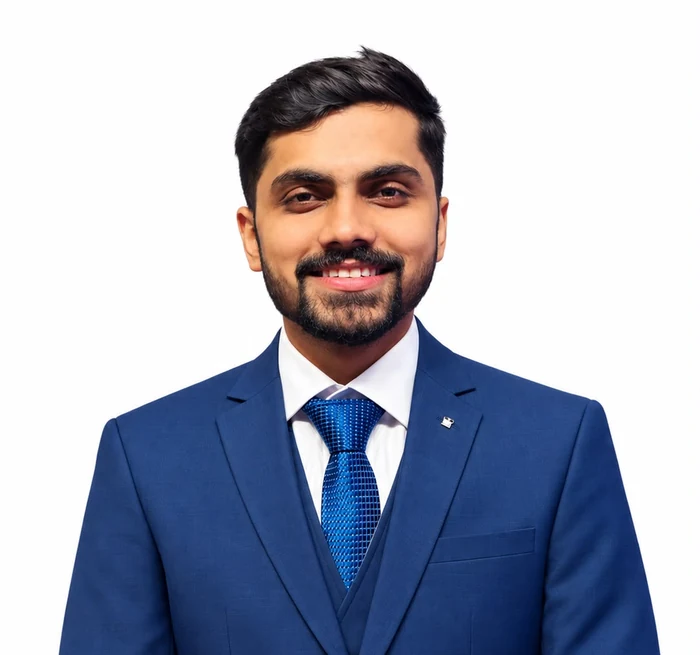
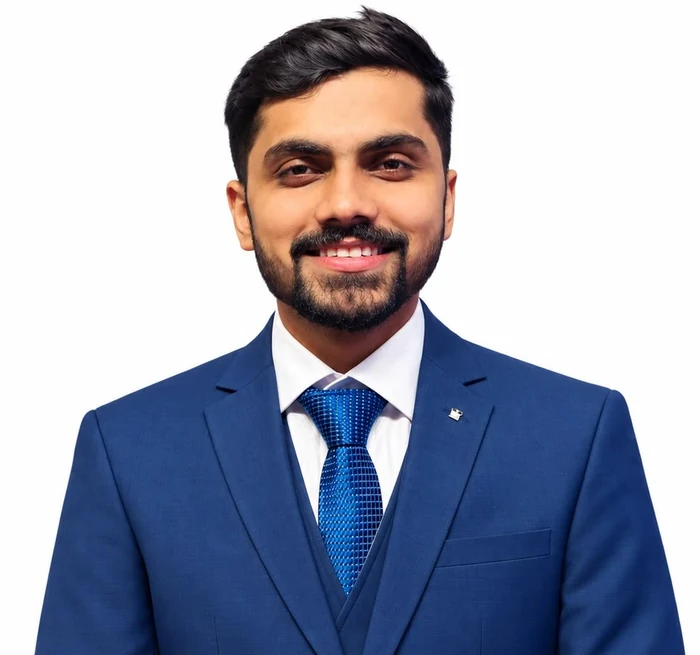
feat(content): General Secretaries and Marketing & Media team photos
Leadership: Amit Chavan and Kaustubh Kachare replace the four GS placeholders.
Marketing & Media: six members (2 coordinators, 4 senior members) with photos,
in Sanity and the fallback.

diff --git a/src/pages/Leadership.jsx b/src/pages/Leadership.jsx
@@ -27,10 +27,8 @@ const page = {
   gsBody:
     'Above every committee chairperson sits the GS team - the apex student leadership for the institute, elected by the batch.',
   gs: [
-    { name: 'Mr. Ashish Bhasin', role: 'GS · Academics' },
-    { name: 'Mr. Ashish Bhasin', role: 'GS · Academics' },
-    { name: 'Mr. Ashish Bhasin', role: 'GS · Academics' },
-    { name: 'Mr. Ashish Bhasin', role: 'GS · Academics' },
+    { name: 'Amit Chavan', role: 'General Secretary', photo: '/images/students/gs-amit-chavan.webp' },
+    { name: 'Kaustubh Kachare', role: 'General Secretary', photo: '/images/students/gs-kaustubh-kachare.webp' },
   ],
   chairsEyebrow: 'Year-2 chairs · 2025-26',
   chairsTitle: 'Cross-committee forum.',
@@ -120,12 +118,12 @@ export default function Leadership() {
         <Tabs active={tab} tabs={tabs} onSelect={setTab} className="mb-12 md:mb-16" />
         <div id="gs" role="tabpanel" aria-labelledby="tab-gs" hidden={tab !== 'gs'} className={`scroll-mt-40 flex-col gap-12 md:gap-16 ${tab === 'gs' ? 'flex' : 'hidden'}`}>
           <SectionTitle center tagline={lp.gsEyebrow} title={lp.gsTitle} body={lp.gsBody} />
-          <div className="grid sm:grid-cols-2 lg:grid-cols-4 gap-12">
+          <div className={`grid sm:grid-cols-2 gap-12 ${lp.gs.length <= 2 ? 'max-w-[616px] mx-auto w-full' : 'lg:grid-cols-4'}`}>
             {lp.gs.map((p, i) => (
               <div key={i} className="flex flex-col items-center gap-6 text-center text-black">
                 <div
                   className="w-full aspect-square bg-navy-50 bg-cover bg-center"
-                  style={{ backgroundImage: `url('/images/students/gs-${i + 1}.webp')` }}
+                  style={{ backgroundImage: `url('${p.photo || `/images/students/gs-${i + 1}.webp`}')` }}
                 />
                 <div>
                   <p className="text-[22px] leading-[150%] font-semibold">{p.name}</p>

diff --git a/src/pages/CommitteeDetail.jsx b/src/pages/CommitteeDetail.jsx
@@ -664,7 +664,12 @@ const fallbackBySlug = {
     teamTitleHighlight: 'running this',
     teamSubtitle: 'Refreshed annually after induction.',
     team: [
+      { name: 'Ronit Pawar', role: 'Coordinator', photoUrl: '/images/committees/team/marketing-media-ronit-pawar.webp' },
+      { name: 'Rutvik Sanap', role: 'Coordinator', photoUrl: '/images/committees/team/marketing-media-rutvik-sanap.webp' },
+      { name: 'Akanksha Pandey', role: 'Senior Member', photoUrl: '/images/committees/team/marketing-media-akanksha-pandey.webp' },
+      { name: 'Mihika Gupta', role: 'Senior Member', photoUrl: '/images/committees/team/marketing-media-mihika-gupta.webp' },
       { name: 'Shravan Dubey', role: 'Senior Member', photoUrl: '/images/committees/team/marketing-media-shravan-dubey.webp' },
+      { name: 'Yashas Jadhav', role: 'Senior Member', photoUrl: '/images/committees/team/marketing-media-yashas-jadhav.webp' },
     ],
     voiceEyebrow: 'Member Voice',
     voiceTitle: 'In their own words',
